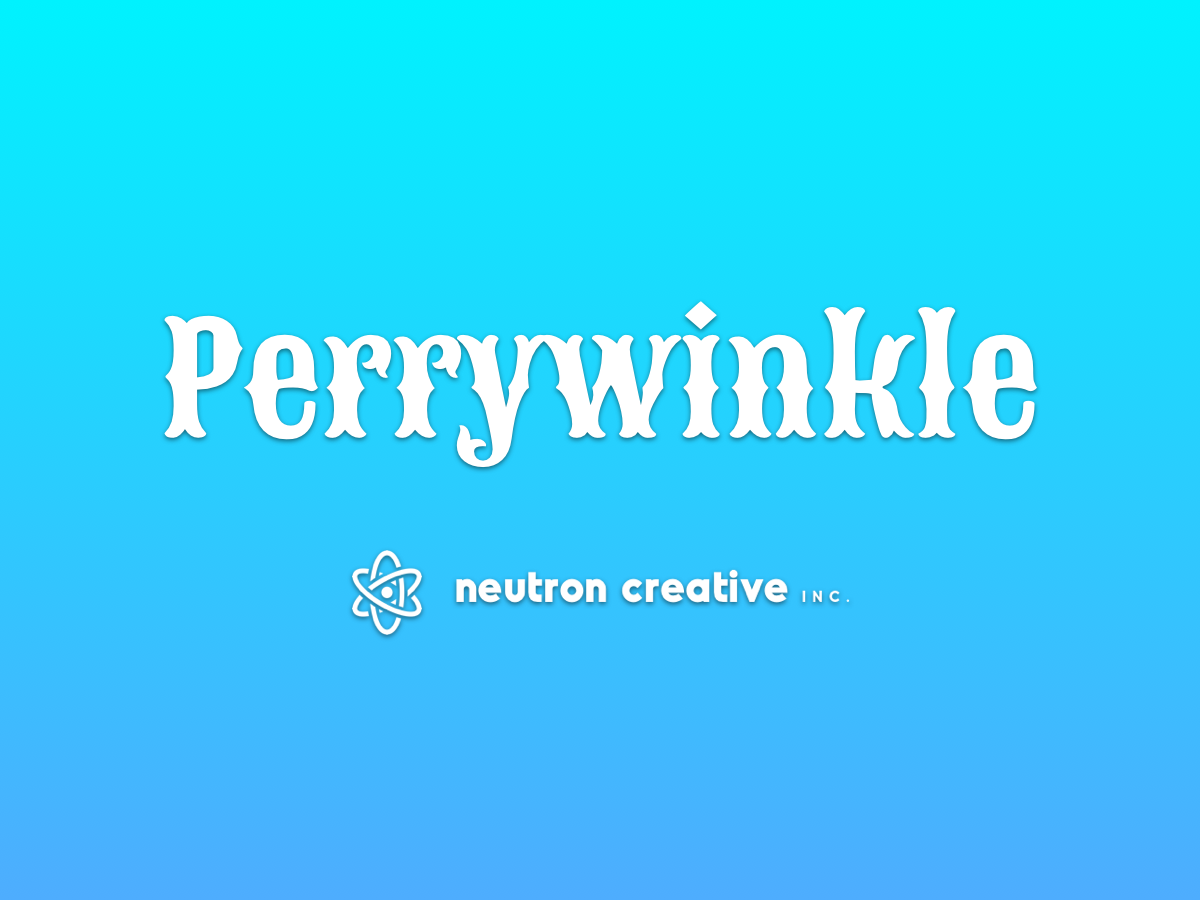
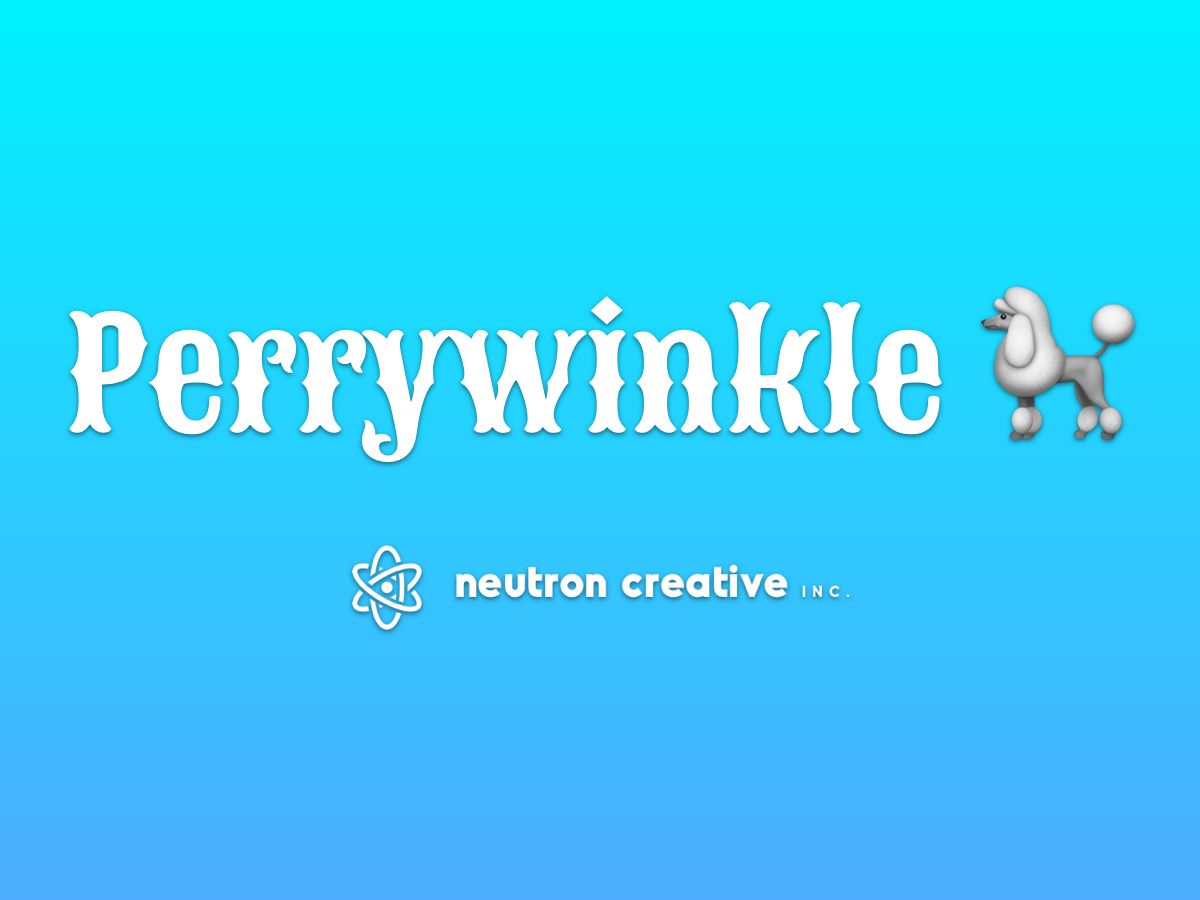
Updated README and brand assets

Changed region(s): [[0.0617, 0.3111, 0.9558, 0.5289], [0.2775, 0.5911, 0.7092, 0.7156]]

diff --git a/README.md b/README.md
@@ -1,2 +1,17 @@
-# Perrywinkle
-A base WordPress theme built with modern-day standards and optimizations in mind so you can focus on building your child theme.
+![Perrywinkle 🐩](banner.png?raw=true)
+
+*Perrywinkle 🐩* is a robust, flexible, and easy-to-use theme for the [Wordpress](https://wordpress.org) platform.
+Built with scalability and client-use in mind, we aim to provide a leaner alternative to the [Storefront](https://github.com/woocommerce/storefront) theme.
+
+## Roadmap
+
+### Next Version: **0.1.0**
+**Goal**: Build a useable child theme for the initial launch of the updated [Neutron Creative website](http://neutroncreative.com).
+
+**Agenda**:
+- [ ] Add In-Depth Dropdown Support
+- [ ] Update Branding Guide
+- [ ] Add Project Support
+- [ ] Add Task Support
+- [ ] Add Kanban Boards
+- [ ] Update Client Support
